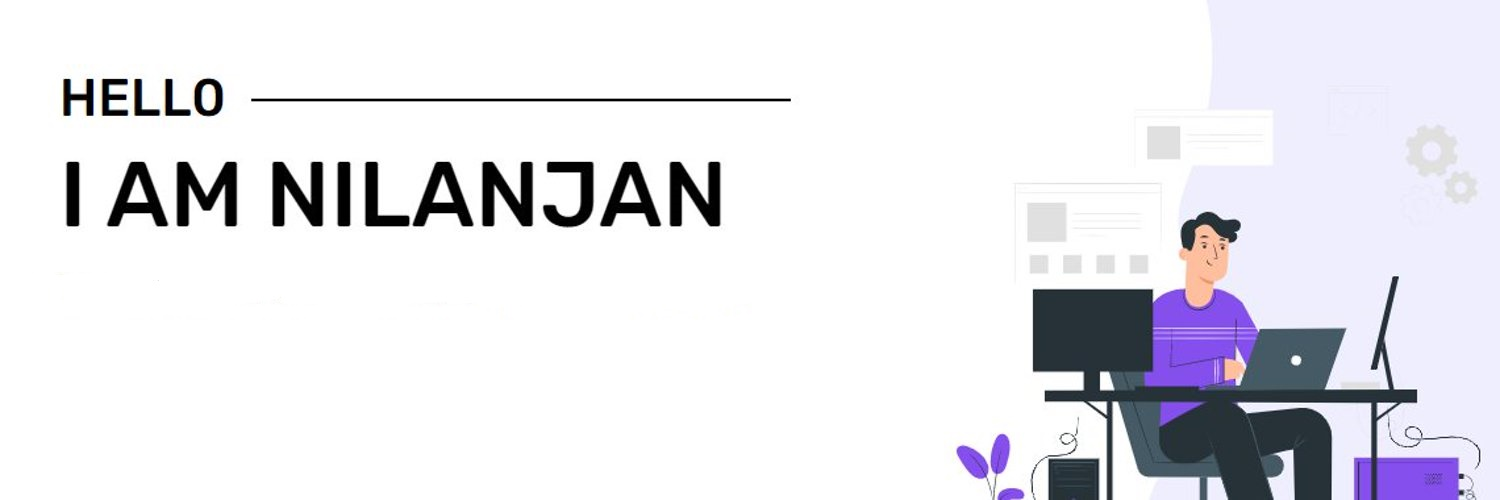
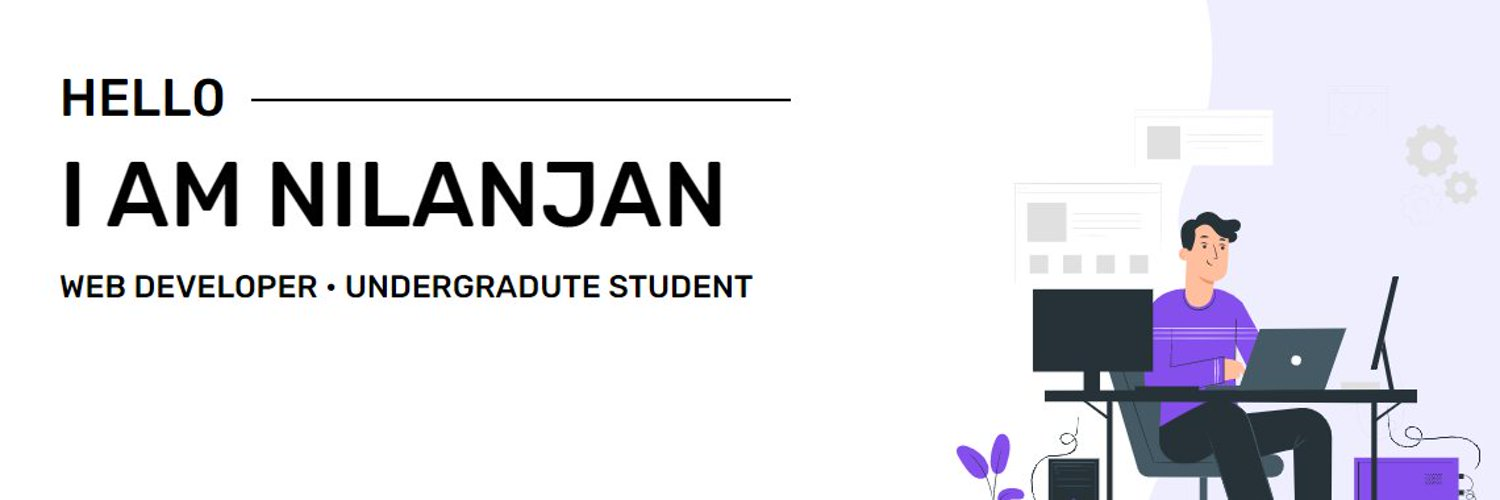
initial commit -m

Changed region(s): [[0.0307, 0.54, 0.5213, 0.6]]

diff --git a/README.md b/README.md
@@ -1,0 +1,5 @@
+![Banner](https://raw.githubusercontent.com/nil1729/nil1729/master/assets/nilanjan.jpg)
+
+### 𝐇i 𝐭𝐡𝐞𝐫𝐞, 𝐟𝐞𝐥𝐥𝐨𝐰 <𝚍𝚎𝚟𝚎𝚕𝚘𝚙𝚎𝚛>! <img alt="👋" src="https://raw.githubusercontent.com/nil1729/nil1729/master/assets/wave.gif" width="30px">
+
+I am a Web developer pursuing B.E. Computer Science at BITS Pilani, India. I am experienced in Vue.js, React.js and Node.js. I love solving problems with JavaScript and C++ and creating web based projects with new tech skills.
